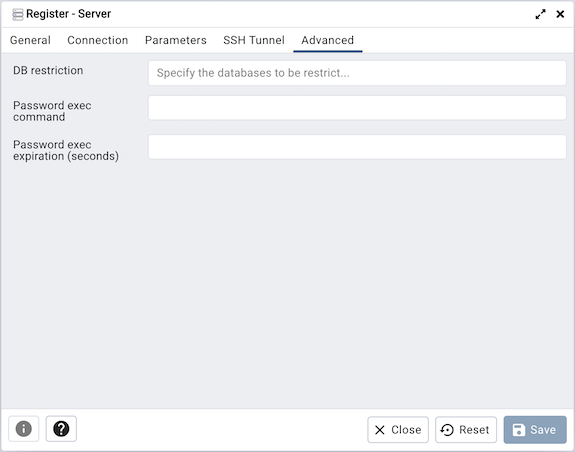
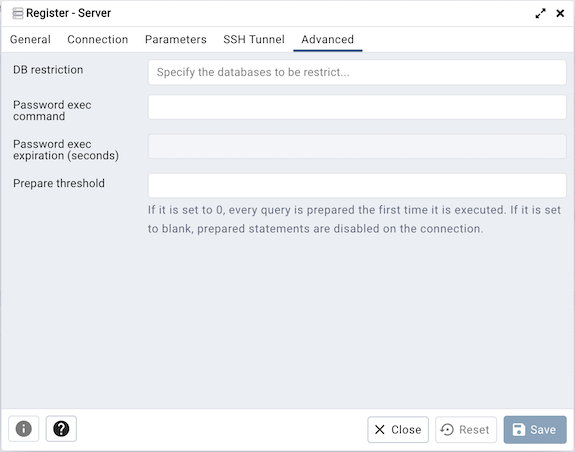
Add support for setting prepare threshold in server connection. #6285

diff --git a/web/pgadmin/browser/server_groups/servers/static/js/server.ui.js b/web/pgadmin/browser/server_groups/servers/static/js/server.ui.js
@@ -344,9 +344,16 @@ export default class ServerSchema extends BaseUISchema {
         id: 'passexec_expiration', label: gettext('Password exec expiration (seconds)'), type: 'int',
         group: gettext('Advanced'),
         mode: ['properties', 'edit', 'create'],
-        visible: function(state) {
-          return !_.isEmpty(state.passexec_cmd);
+        disabled: function(state) {
+          return isEmptyString(state.passexec_cmd);
         },
+      },
+      {
+        id: 'prepare_threshold', label: gettext('Prepare threshold'), type: 'int',
+        group: gettext('Advanced'),
+        mode: ['properties', 'edit', 'create'],
+        helpMessageMode: ['edit', 'create'],
+        helpMessage: gettext('If it is set to 0, every query is prepared the first time it is executed. If it is set to blank, prepared statements are disabled on the connection.')
       }
     ];
   }

diff --git a/web/pgadmin/browser/server_groups/servers/__init__.py b/web/pgadmin/browser/server_groups/servers/__init__.py
@@ -176,6 +176,7 @@ class ServerModule(sg.ServerGroupPluginModule):
         server.username = sharedserver.username
         server.server_owner = sharedserver.server_owner
         server.password = sharedserver.password
+        server.prepare_threshold = sharedserver.prepare_threshold
 
         return server
 
@@ -390,7 +391,8 @@ class ServerModule(sg.ServerGroupPluginModule):
                 tunnel_authentication=0,
                 tunnel_identity_file=None,
                 shared=True,
-                connection_params=data.connection_params
+                connection_params=data.connection_params,
+                prepare_threshold=data.prepare_threshold
             )
             db.session.add(shared_server)
             db.session.commit()
@@ -816,7 +818,8 @@ class ServerNode(PGChildNodeView):
             'shared': 'shared',
             'shared_username': 'shared_username',
             'kerberos_conn': 'kerberos_conn',
-            'connection_params': 'connection_params'
+            'connection_params': 'connection_params',
+            'prepare_threshold': 'prepare_threshold'
         }
 
         disp_lbl = {
@@ -1109,7 +1112,8 @@ class ServerNode(PGChildNodeView):
             'gss_encrypted': manager.gss_encrypted,
             'cloud_status': server.cloud_status,
             'connection_params': connection_params,
-            'connection_string': manager.display_connection_string
+            'connection_string': manager.display_connection_string,
+            'prepare_threshold': server.prepare_threshold
         }
 
         return ajax_response(response)
@@ -1202,7 +1206,8 @@ class ServerNode(PGChildNodeView):
                 passexec_cmd=data.get('passexec_cmd', None),
                 passexec_expiration=data.get('passexec_expiration', None),
                 kerberos_conn=1 if data.get('kerberos_conn', False) else 0,
-                connection_params=connection_params
+                connection_params=connection_params,
+                prepare_threshold=data.get('prepare_threshold', None)
             )
             db.session.add(server)
             db.session.commit()

diff --git a/web/migrations/versions/44b9ce549393_.py b/web/migrations/versions/44b9ce549393_.py
@@ -1,0 +1,54 @@
+##########################################################################
+#
+# pgAdmin 4 - PostgreSQL Tools
+#
+# Copyright (C) 2013 - 2023, The pgAdmin Development Team
+# This software is released under the PostgreSQL Licence
+#
+##########################################################################
+
+"""Add support for prepare_threshold param
+https://www.psycopg.org/psycopg3/docs/advanced/prepare.html#prepared-statements
+
+Revision ID: 44b9ce549393
+Revises: 9426ad06a63b
+Create Date: 2023-10-12 12:15:01.757931
+
+"""
+from alembic import op
+import sqlalchemy as sa
+
+
+# revision identifiers, used by Alembic.
+revision = '44b9ce549393'
+down_revision = '9426ad06a63b'
+branch_labels = None
+depends_on = None
+
+
+def upgrade():
+    with op.batch_alter_table(
+            "server", table_kwargs={'sqlite_autoincrement': True}) as batch_op:
+        batch_op.add_column(sa.Column('prepare_threshold', sa.Integer(),
+                                      nullable=True))
+
+    with op.batch_alter_table("sharedserver") as batch_op:
+        batch_op.add_column(sa.Column('prepare_threshold', sa.Integer(),
+                                      nullable=True))
+
+    # get metadata from current connection
+    meta = sa.MetaData()
+    # define table representation
+    meta.reflect(op.get_bind(), only=('server', 'sharedserver'))
+    table = sa.Table('server', meta)
+    op.execute(
+        table.update().values(prepare_threshold=5)
+    )
+    table = sa.Table('sharedserver', meta)
+    op.execute(
+        table.update().values(prepare_threshold=5)
+    )
+
+def downgrade():
+    # pgAdmin only upgrades, downgrade not implemented.
+    pass

diff --git a/web/pgadmin/model/__init__.py b/web/pgadmin/model/__init__.py
@@ -33,7 +33,7 @@ import config
 #
 ##########################################################################
 
-SCHEMA_VERSION = 36
+SCHEMA_VERSION = 37
 
 ##########################################################################
 #
@@ -206,6 +206,7 @@ class Server(db.Model):
     kerberos_conn = db.Column(db.Boolean(), nullable=False, default=0)
     cloud_status = db.Column(db.Integer(), nullable=False, default=0)
     connection_params = db.Column(MutableDict.as_mutable(types.JSON))
+    prepare_threshold = db.Column(db.Integer(), nullable=True)
 
 
 class ModulePreference(db.Model):
@@ -414,6 +415,7 @@ class SharedServer(db.Model):
     tunnel_password = db.Column(PgAdminDbBinaryString())
     shared = db.Column(db.Boolean(), nullable=False)
     connection_params = db.Column(MutableDict.as_mutable(types.JSON))
+    prepare_threshold = db.Column(db.Integer(), nullable=True)
 
 
 class Macros(db.Model):

diff --git a/web/pgadmin/utils/driver/psycopg3/connection.py b/web/pgadmin/utils/driver/psycopg3/connection.py
@@ -360,12 +360,15 @@ class Connection(BaseConnection):
                         return await psycopg.AsyncConnection.connect(
                             connection_string,
                             cursor_factory=AsyncDictCursor,
-                            autocommit=autocommit)
+                            autocommit=autocommit,
+                            prepare_threshold=manager.prepare_threshold
+                        )
                     pg_conn = asyncio.run(connectdbserver())
                 else:
                     pg_conn = psycopg.Connection.connect(
                         connection_string,
-                        cursor_factory=DictCursor)
+                        cursor_factory=DictCursor,
+                        prepare_threshold=manager.prepare_threshold)
 
         except psycopg.Error as e:
             manager.stop_ssh_tunnel()

diff --git a/web/pgadmin/utils/driver/psycopg3/server_manager.py b/web/pgadmin/utils/driver/psycopg3/server_manager.py
@@ -112,6 +112,7 @@ class ServerManager(object):
         self.gss_encrypted = False
         self.connection_params = server.connection_params
         self.create_connection_string(self.db, self.user)
+        self.prepare_threshold = server.prepare_threshold
 
         for con in self.connections:
             self.connections[con]._release()

diff --git a/web/migrations/versions/9426ad06a63b_.py b/web/migrations/versions/9426ad06a63b_.py
@@ -35,7 +35,6 @@ def upgrade():
         batch_op.add_column(sa.Column('shared_username', sa.String(64), nullable=True))
 
 
-
 def downgrade():
     # pgAdmin only upgrades, downgrade not implemented.
     pass

diff --git a/docs/en_US/server_dialog.rst b/docs/en_US/server_dialog.rst
@@ -206,6 +206,12 @@ Use the fields in the *Advanced* tab to configure a connection:
   the password will not expire until your pgAdmin session does.
   Zero means the command will be executed for each new connection or reconnection that is made.
   If the generated password is not valid indefinitely, set this value to slightly before it will expire.
+* Use the *Prepare threshold* field to specify the number of times a query is
+  executed before it is prepared. If it is set to 0, every query is prepared
+  the first time it is executed. If it is set to blank, prepared statements are disabled
+  on the connection. This is particularly useful with external connection poolers,
+  such as PgBouncer, which is not compatible with prepared statements. Set this to
+  blank in such cases.
 
 .. note:: The password file option is only supported when pgAdmin is using libpq
     v10.0 or later to connect to the server.
